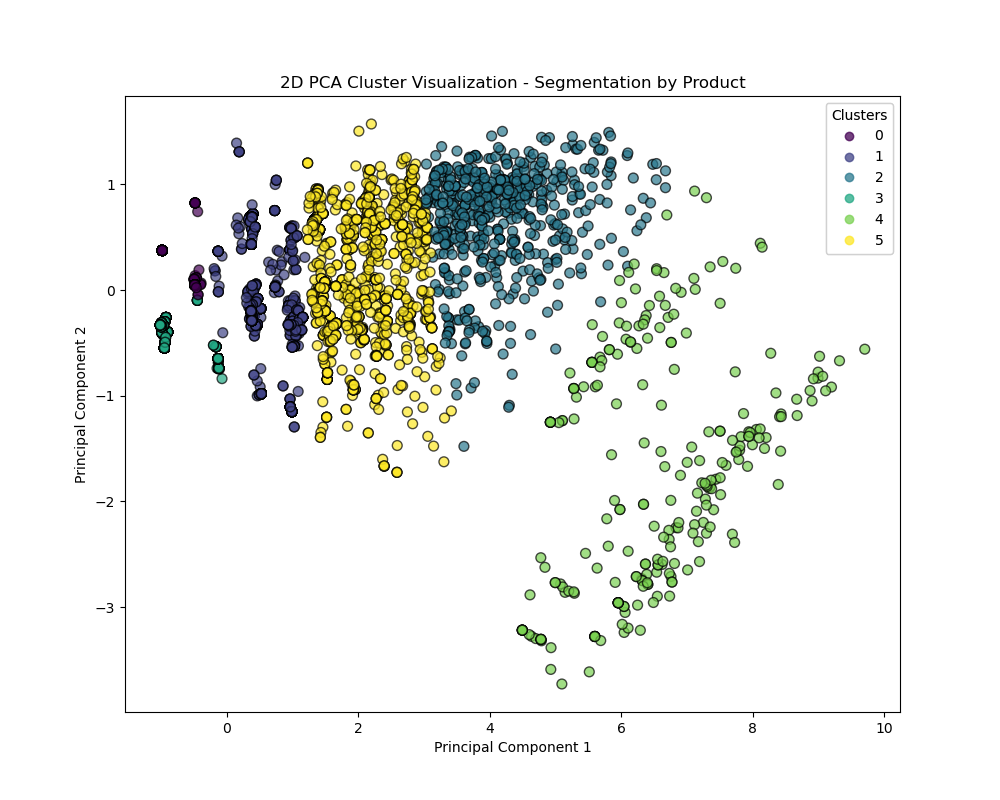
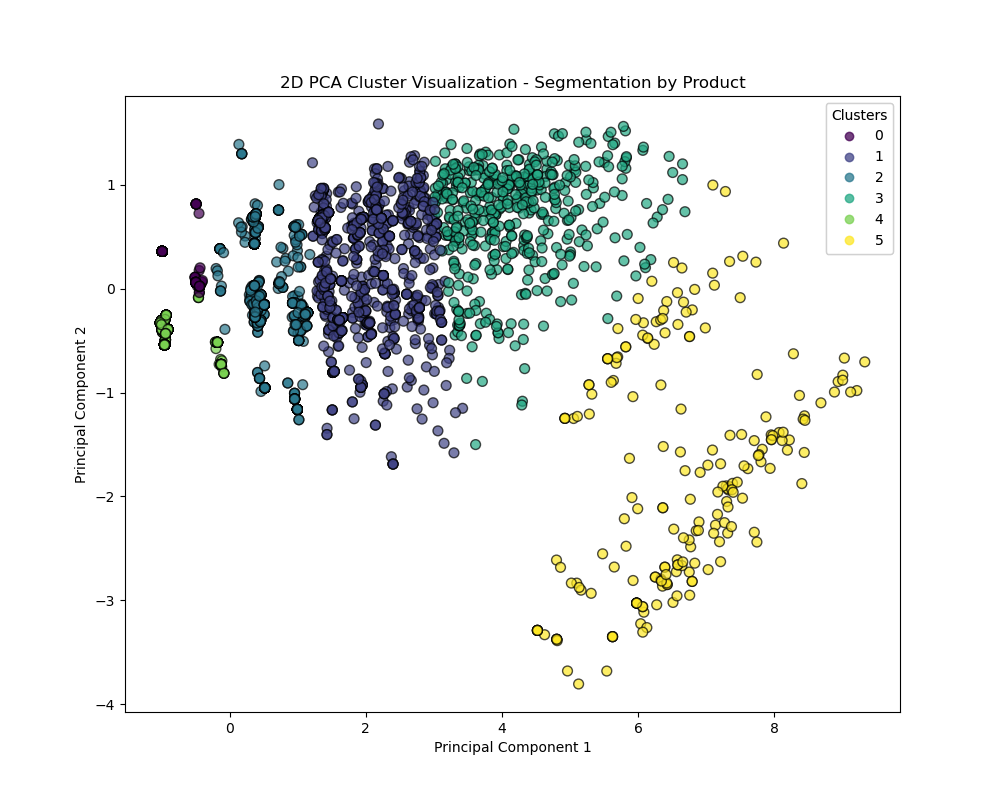
Created test dataset for front-end users

diff --git a/templates/index.html b/templates/index.html
@@ -4,12 +4,51 @@
     <meta charset="UTF-8">
     <meta name="viewport" content="width=device-width, initial-scale=1.0">
     <title>Upload CSV</title>
+    <link rel="stylesheet" href="{{ url_for('static', filename='css/styles.css') }}">
 </head>
 <body>
-    <h1>Upload CSV File</h1>
-    <form action="/upload" method="post" enctype="multipart/form-data">
-        <input type="file" name="file" accept=".csv">
-        <input type="submit" value="Upload">
-    </form>
+    <div class="container">
+        <h1>Customer Segmentation Using a Clustering ML Algorithm</h1>
+        <div>
+            <p id="redline">*** For Kajabi users only ***</p> 
+            <p>Before using this tool, please export your customer list from Kajabi into a .csv file.</p>
+        </div>
+        <h3>CSV File Requirements</h1>
+        <div>
+            <p>Please ensure your CSV file contains the following columns before uploading it to the app:</p>
+        </div>
+        <div>
+            <table>
+                <thead>
+                    <tr>
+                        <th>ID</th>
+                        <th>Products</th>
+                        <th>Tags</th>
+                        <th>Created At</th>
+                        <th>Sign In Count</th>
+                        <th>Last Activity</th>
+                        <th>Last Sign In At</th>
+                    </tr>
+                    <tr>
+                        <td>Integer</td>
+                        <td>String</td>
+                        <td>String</td>
+                        <td>DateTime</td>
+                        <td>Integer</td>
+                        <td>DateTime</td>
+                        <td>DateTime</td>
+                </thead>
+            </table>
+        </div>
+        <h2>Upload your CSV file below</h1>
+        <form action="/upload" method="post" enctype="multipart/form-data" class="upload-form">
+            <input type="file" name="file" accept=".csv" class="file-input">
+            <input type="submit" value="Upload" class="submit-button">
+        </form>
+        <div id="alternate-block">
+            <p>If you don't use Kajabi and don't have a customer list, that's okay! You can still experiment with this app using a test dataset. Just click below to download test data and then upload it above.</p>
+            <button class="download-test">Download Test Dataset</button>
+        </div>
+    </div>
 </body>
 </html>

diff --git a/static/css/styles.css b/static/css/styles.css
@@ -1,0 +1,113 @@
+/* Style the main container */
+.container {
+    max-width: 90%; /* Set the maximum width to 90% */
+    width: 100%; /* Ensure the container takes up the full width */
+    box-sizing: border-box; /* Include padding and border in the element's total width and height */
+    display: flex;
+    flex-direction: column;
+    align-items: center;
+}
+
+/* Center everything on the page */
+body {
+    display: flex;
+    flex-direction: column;
+    align-items: center;
+    height: 100vh;
+    margin: 0;
+    font-family: 'Verdana', sans-serif;
+    text-align: center;
+}
+
+/* Set the font styles */
+h1, h2, h3 {
+    font-family: 'Arial', sans-serif;
+    font-weight: bold;
+}
+
+#redline {
+    color: red;
+    font-weight: bold;
+}
+
+/* Style the table */
+table {
+    border-collapse: collapse;
+    margin-top: 20px;
+    font-size: 12px;
+    display: flex;
+    margin-left: auto;
+    margin-right: auto;
+}
+th, td {
+    border: 1px solid #ddd;
+    padding: 8px;
+    text-align: center; 
+}
+th {
+    background-color: #f2f2f2;
+}
+
+/* Style the form */
+.upload-form {
+    display: flex;
+    flex-direction: column;
+    align-items: center;
+    gap: 10px;
+    padding: 20px;
+    border: 1px solid #ddd;
+    border-radius: 8px;
+    background-color: #f9f9f9;
+    max-width: 30%;
+    width: 100%;
+    box-sizing: border-box;
+    margin-left: auto;
+    margin-right: auto;
+}
+
+/* Style the file input */
+.file-input {
+    padding: 10px;
+    border: 1px solid #ccc;
+    border-radius: 4px;
+    font-family: 'Verdana', sans-serif;
+}
+
+/* Style the submit button */
+.submit-button {
+    padding: 10px 20px;
+    border: none;
+    border-radius: 4px;
+    background-color: #007BFF;
+    color: white;
+    font-family: 'Verdana', sans-serif;
+    cursor: pointer;
+}
+
+.submit-button:hover {
+    background-color: #0056b3;
+}
+
+
+#alternate-block {
+    width: 60%;
+    margin-top: 20px;
+    margin-left: auto;
+    margin-right: auto;
+}
+
+.download-test {
+    background-color: #FF8C00; /* Orange color */
+    color: white;
+    padding: 10px 20px;
+    border: none;
+    border-radius: 4px;
+    font-family: 'Verdana', sans-serif;
+    font-size: 14px;
+    cursor: pointer;
+    margin-top: 10px;
+}
+
+.download-test:hover {
+    background-color: #E67E00; /* Slightly darker orange for hover effect */
+}

diff --git a/templates/results.html b/templates/results.html
@@ -4,6 +4,7 @@
     <meta charset="UTF-8">
     <meta name="viewport" content="width=device-width, initial-scale=1.0">
     <title>Results</title>
+    <link rel="stylesheet" href="{{ url_for('static', path='/css/styles.css') }}">
 </head>
 <body>
     <h1>Results</h1>

diff --git a/src/models/kmeans_clustering_test.py b/src/models/kmeans_clustering_test.py
@@ -1,5 +1,6 @@
 import pandas as pd
 import numpy as np
+from sklearn.model_selection import train_test_split
 from sklearn.feature_extraction.text import CountVectorizer
 from sklearn.cluster import KMeans
 from sklearn.preprocessing import RobustScaler, StandardScaler
@@ -28,7 +29,18 @@ from src.features.build_features import create_additional_features
 
 df = pd.read_csv("../../data/raw/DDU - Raw Kajabi Data.csv")
 
-df_pruned = prune_dataset(df)
+# --------------------------------------------------------------
+# Create a random train-test split
+# --------------------------------------------------------------
+
+df_train, df_test = train_test_split(df, test_size=0.2, random_state=42, shuffle=True)
+pd.DataFrame.to_csv(df_test, "../../data/raw/DDU - Raw Kajabi Data - Test.csv")
+
+# --------------------------------------------------------------
+# Process the training data
+# --------------------------------------------------------------
+
+df_pruned = prune_dataset(df_train)
 df_pruned.to_pickle("../../data/interim/DDU - Pruned Kajabi Data.pkl")
 
 df_cleaned = clean_dataset(df_pruned)

diff --git a/app.py b/app.py
@@ -24,6 +24,7 @@ from sklearn.metrics import silhouette_score
 matplotlib.use("Agg")
 
 app = Flask(__name__)
+app.static_folder = "static"
 
 # Load the model
 kmeans_model = joblib.load("models/kmeans_model.pkl")
@@ -103,7 +104,7 @@ def upload_file():
 
 @app.route("/download")
 def download_file():
-    return send_file("processed_output.csv", as_attachment=True)
+    return send_file("data/processed/processed_output.csv", as_attachment=True)
 
 
 if __name__ == "__main__":
